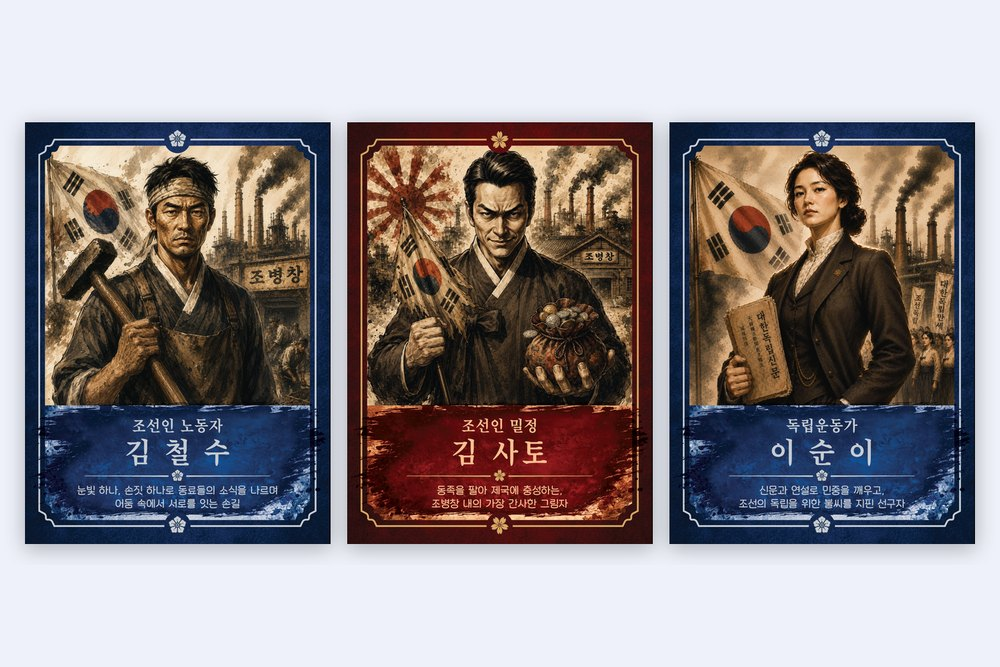
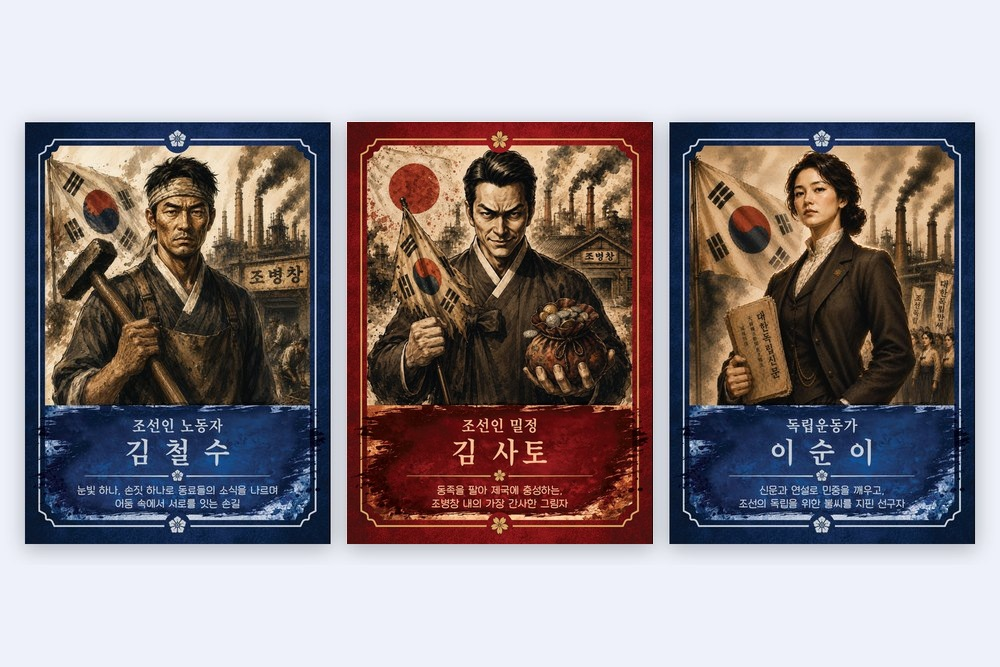
역할 카드 사진: 김사토 일장기 버전으로 교체

Changed region(s): [[0.341, 0.1799, 0.651, 0.8396]]

diff --git a/index.html b/index.html
@@ -1,8 +1,8 @@
 <!doctype html>
 <html lang="ko"><head><meta charset="utf-8"><meta name="viewport" content="width=device-width,initial-scale=1">
 <title>조병창: 밀정 · 기획 콘티</title>
-<link rel="stylesheet" href="보기/viewer.css?v=mvmk1zyd">
+<link rel="stylesheet" href="보기/viewer.css?v=mvuzy8wq">
 </head><body>
-<script src="콘티.js?v=mvmk1zyd"></script>
-<script src="보기/viewer.js?v=mvmk1zyd"></script>
+<script src="콘티.js?v=mvuzy8wq"></script>
+<script src="보기/viewer.js?v=mvuzy8wq"></script>
 </body></html>
